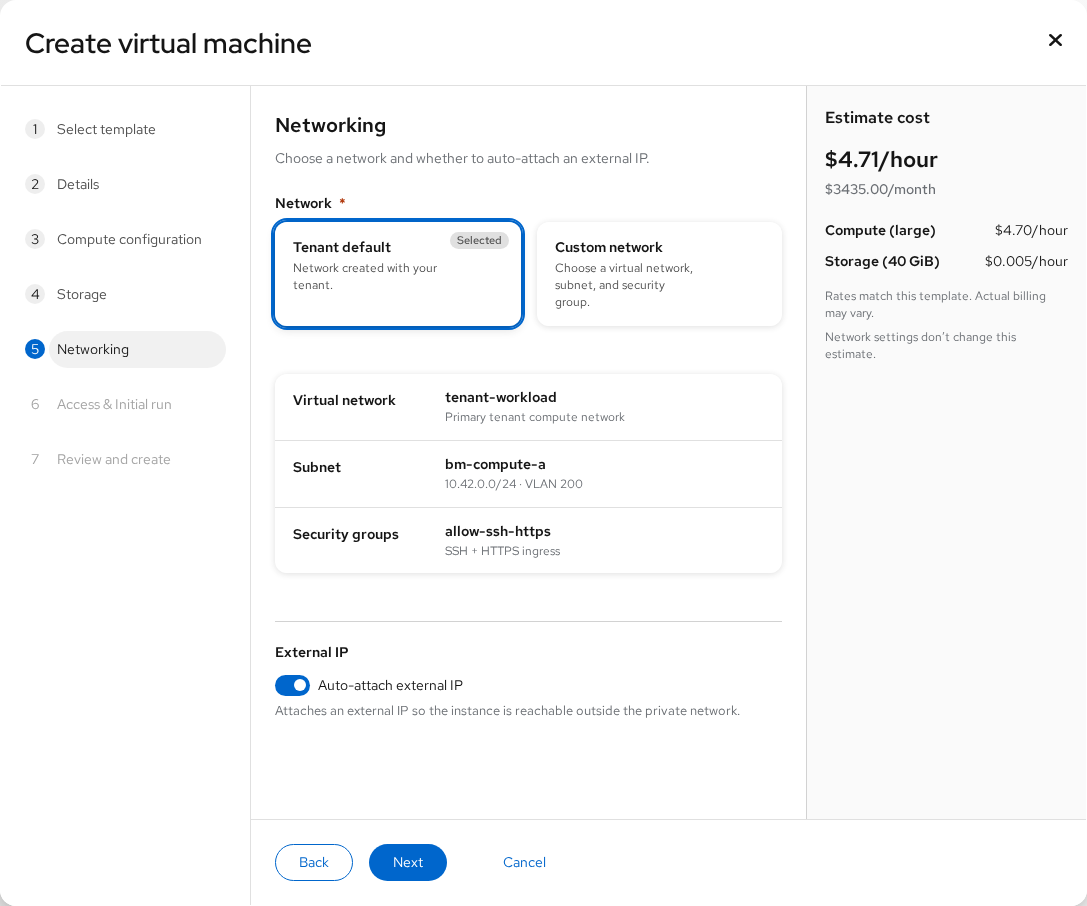
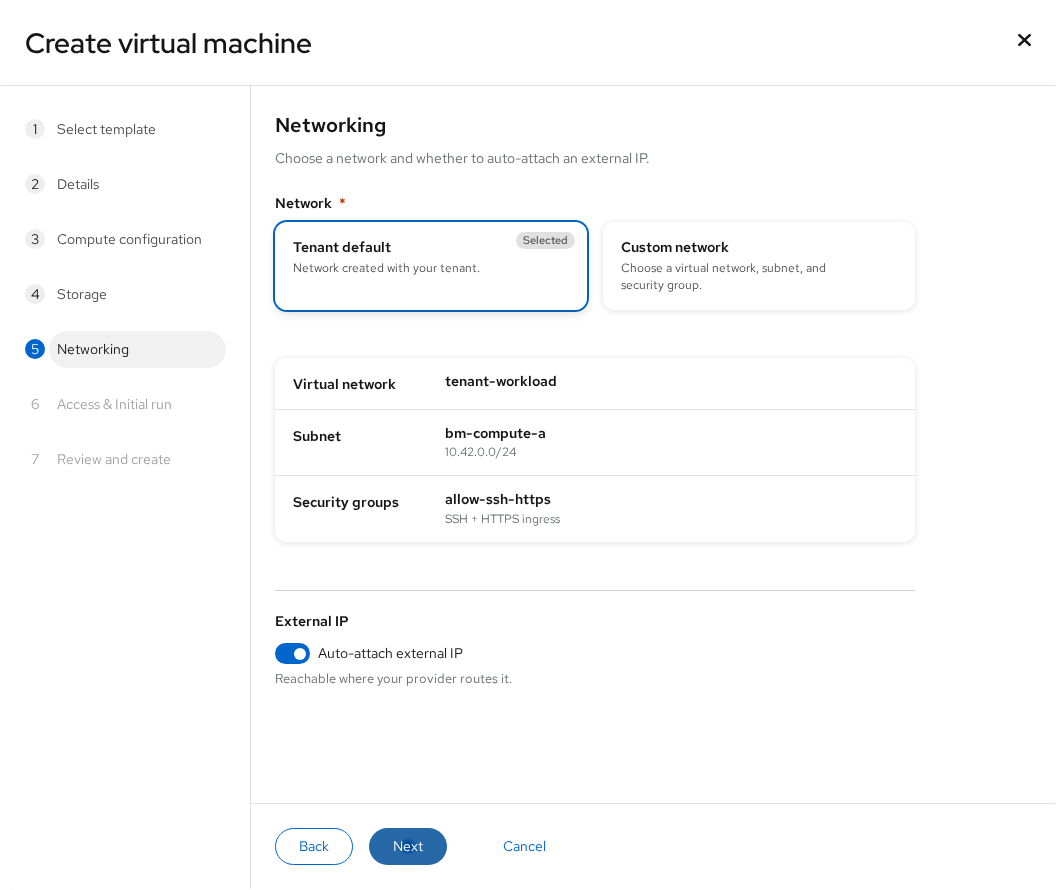
OSAC-5652: address UI design review feedback

diff --git a/enhancements/OSAC-1435-vmaas-networking/ui-design.md b/enhancements/OSAC-1435-vmaas-networking/ui-design.md
@@ -32,8 +32,15 @@ Implemented in the existing VM create wizard's Networking step:
 - **Auto-attach external IP** default and the network choice come from the
   catalog item the VM is launched from; when the catalog item locks the
   field, the toggle is disabled and the field is omitted from the request.
-- The network selection is immutable after create; the UI offers no edit
-  and directs the user to replace the VM.
+- The VirtualNetwork picker lists only VirtualNetworks with
+  `status.state == READY`. After a VirtualNetwork is selected, the Subnet
+  field always uses a dropdown scoped to that VirtualNetwork and lists only
+  Subnets with `status.state == READY`. Its helper text says, "Only subnets
+  supporting virtual machines are shown." The dropdown is also filtered to
+  Subnets with `compute_instance_supported == true`.
+- The SecurityGroups picker is scoped to the selected VirtualNetwork and lists
+  only SecurityGroups with `status.state == READY`.
+- The network attachments are immutable after create.
 
 ## 2. VM details page
 
@@ -45,9 +52,9 @@ Implemented in the existing VM create wizard's Networking step:
 | UI item | Screen | API field | Direction |
 |---|---|---|---|
 | Tenant default / Custom network choice | Wizard, Networking step | `ComputeInstance.spec.network_attachments` presence (omitted = tenant default) | write |
-| VirtualNetwork picker | Wizard, Networking step | `ComputeInstance.spec.network_attachments[0].subnet` → owner VirtualNetwork | write |
-| Subnet picker (name + IPv4 CIDR) | Wizard, Networking step | `ComputeInstance.spec.network_attachments[0].subnet` | write |
-| SecurityGroups picker | Wizard, Networking step | `ComputeInstance.spec.network_attachments[0].security_groups` | write |
+| VirtualNetwork picker (READY only) | Wizard, Networking step | `ComputeInstance.spec.network_attachments[0].subnet` → owner VirtualNetwork | write |
+| Subnet dropdown (selected VirtualNetwork, READY, VM-compatible; name + IPv4 CIDR) | Wizard, Networking step | `ComputeInstance.spec.network_attachments[0].subnet` | write |
+| SecurityGroups picker (selected VirtualNetwork, READY only) | Wizard, Networking step | `ComputeInstance.spec.network_attachments[0].security_groups` | write |
 | Auto-attach external IP toggle | Wizard, Networking step | `ComputeInstance.spec.auto_external_ip_attachment` | write |
 | Second network attachment | Wizard, Networking step | rejected by the CLI before sending (max one entry) | — |
 | External IP value | VM details | attached ExternalIP from `ExternalIPAttachments` / `ExternalIPs` | read |

diff --git a/enhancements/OSAC-1435-vmaas-networking/design.md b/enhancements/OSAC-1435-vmaas-networking/design.md
@@ -327,12 +327,6 @@ The attach needs a [ready endpoint](#externalipattachment-target-compute_instanc
 - **NetworkAttachment** ([Unified](/enhancements/OSAC-1433-unified-networking/design.md#networkattachment)): VMaaS creates and deletes the overlay kind; the networking controller runs its tasks on the Kubernetes and the Fabric Manager.
 - **Controllers down:** without the networking controller, no NetworkAttachment becomes Ready and no VM is created.
 
-### UX Alignment
-
-UI: [VMaaS UI design](ui-design.md); the VM wizard may set
-`auto_external_ip_attachment` and shows `NetworkReady` (including
-`SubnetDoesNotSupportVMs`).
-
 ### Implementation Details/Notes/Constraints
 
 #### Network attachment and validation

diff --git a/enhancements/OSAC-1435-vmaas-networking/ux-design.md b/enhancements/OSAC-1435-vmaas-networking/ux-design.md
@@ -35,7 +35,10 @@ groups. A VM has exactly one network attachment and it cannot change after creat
 
 ![Create VM networking — custom network](assets/02-create-custom-network.png)
 
-The Subnet picker shows each Subnet's name and IPv4 CIDR.
+The Subnet field always uses a dropdown and shows each Subnet's name and IPv4
+CIDR. Its helper text says, "Only subnets supporting virtual machines are
+shown." The dropdown is filtered to Subnets with
+`compute_instance_supported == true`.
 
 ---
 
